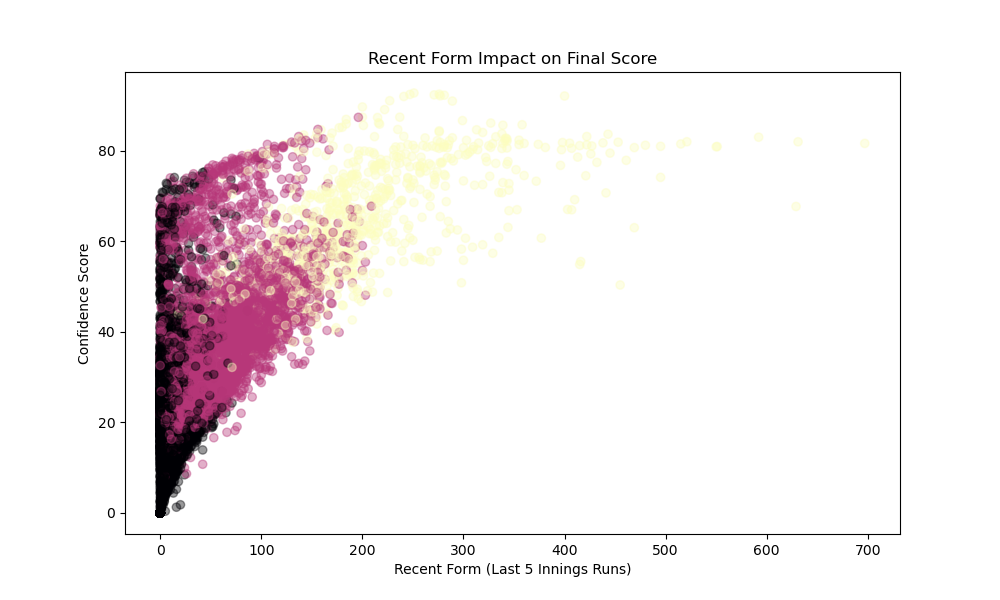
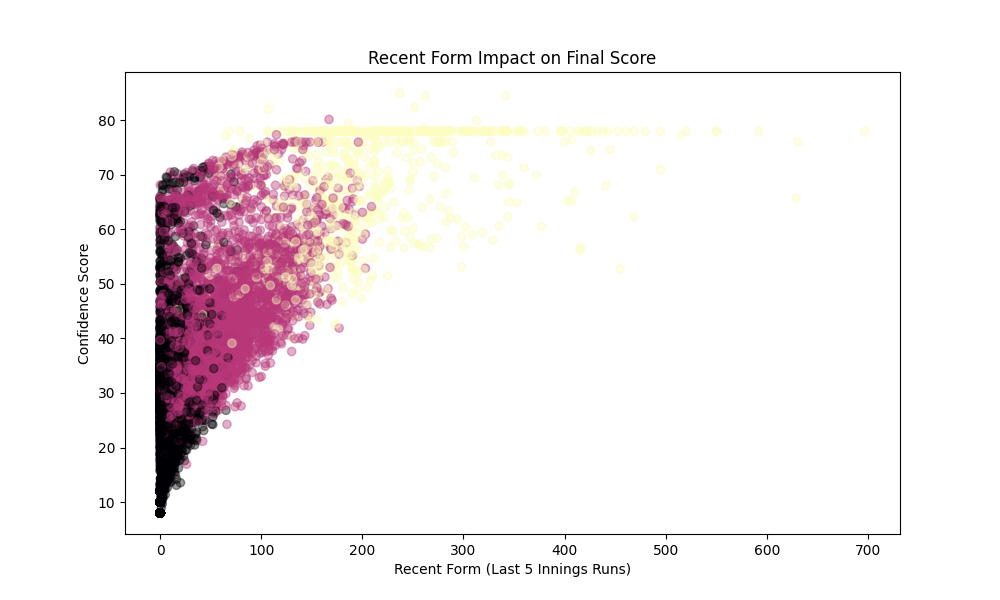
Refine scoring logic: Role-based calibration, max caps, Test stability (balls faced), and updated benchmarks.

diff --git a/train_model.py b/train_model.py
@@ -44,7 +44,9 @@ def build_refined_pipeline():
             'econ': econ,
             'bowl_avg': bowl_avg,
             'matches': matches,
-            'runs': total_runs
+            'runs': total_runs,
+            'total_balls_faced': total_balls,
+            'balls_per_innings': total_balls / (innings if innings > 0 else 1)
         })
 
     print("Engineering performance-oriented features...")
@@ -53,7 +55,7 @@ def build_refined_pipeline():
     # 3. Refined Scoring Formula (Batsman centric as per Step 5)
     # score = avg*0.35 + sr*0.25 (scaled) + last5*0.3 + hs*0.1
     # We normalize internal components for a balanced score
-    def calculate_balanced_score(row):
+    def get_base_score(row):
         # Normalizing Strike Rate (ideal 140+ in T20)
         norm_sr = min(row['sr'], 200) / 2
         # Normalizing Last 5 (ideal 200+)
@@ -63,6 +65,15 @@ def build_refined_pipeline():
         # Average (ideal 45+)
         norm_avg = min(row['avg'], 60) * 1.66
         
+        if row['player_type'] in ['Batsman', 'Wicketkeeper'] and row['match_format'] == 'Test':
+            norm_avg = min(row['avg'], 60) / 60
+            norm_balls = min(row['balls_per_innings'], 120) / 120
+            norm_last5 = min(row['last5_runs'], 250) / 250
+            norm_hs = min(row['high_score'], 150) / 150
+
+            s_fraction = (norm_avg * 0.35) + (norm_balls * 0.30) + (norm_last5 * 0.20) + (norm_hs * 0.15)
+            return s_fraction
+
         if row['player_type'] in ['Batsman', 'Wicketkeeper']:
             s = (norm_avg * 0.35) + (norm_sr * 0.25) + (norm_last5 * 0.30) + (norm_hs * 0.10)
         elif row['player_type'] == 'Bowler':
@@ -73,9 +84,70 @@ def build_refined_pipeline():
         else: # All-Rounder
             s = (norm_avg * 0.2) + (norm_sr * 0.15) + (norm_last5 * 0.2) + (min(row['wickets'], 20) * 2.5)
             
-        return s
+        return s / 100.0  # Return as fraction (0.0 to 1.0)
 
-    agg_df['score'] = agg_df.apply(calculate_balanced_score, axis=1)
+    def calibrate_score(row):
+        base = row['score'] * 100
+
+        fmt = row['match_format']
+        role = row['player_type']
+
+        # ---------------- T20 ----------------
+        if fmt == 'T20':
+            if role in ['Batsman', 'Wicketkeeper']:
+                return (base * 0.90) + 10   # aggressive scoring → 70–85
+            elif role == 'Bowler':
+                return (base * 0.85) + 12   # slightly lower ceiling
+            else:  # All-Rounder
+                return (base * 0.88) + 11
+
+        # ---------------- ODI ----------------
+        elif fmt == 'ODI':
+            if role in ['Batsman', 'Wicketkeeper']:
+                return (base * 0.85) + 8    # balanced
+            elif role == 'Bowler':
+                return (base * 0.80) + 10
+            else:
+                return (base * 0.83) + 9
+
+        # ---------------- TEST ----------------
+        else:
+            if role in ['Batsman', 'Wicketkeeper']:
+                return (base * 0.80) + 12   # consistency → higher base
+            elif role == 'Bowler':
+                return (base * 0.75) + 15   # wickets priority
+            else:
+                return (base * 0.78) + 13
+
+    def apply_max_cap(value, role, fmt):
+        if fmt == "T20":
+            if role in ['Batsman', 'Wicketkeeper']:
+                return min(value, 85)
+            elif role == 'Bowler':
+                return min(value, 82)
+            else:
+                return min(value, 84)
+
+        elif fmt == "ODI":
+            if role in ['Batsman', 'Wicketkeeper']:
+                return min(value, 80)
+            elif role == 'Bowler':
+                return min(value, 78)
+            else:
+                return min(value, 79)
+
+        else:  # Test
+            if role in ['Batsman', 'Wicketkeeper']:
+                return min(value, 78)
+            elif role == 'Bowler':
+                return min(value, 76)
+            else:
+                return min(value, 77)
+
+    print("Calculating base scores and applying calibration & caps...")
+    agg_df['score'] = agg_df.apply(get_base_score, axis=1)
+    agg_df['score'] = agg_df.apply(calibrate_score, axis=1)
+    agg_df['score'] = agg_df.apply(lambda x: apply_max_cap(x['score'], x['player_type'], x['match_format']), axis=1)
 
     # 4. Improved Clustering (StandardScaler + Performance Features)
     # Using quality features ONLY
@@ -94,8 +166,23 @@ def build_refined_pipeline():
     agg_df['levels'] = agg_df['cluster'].map({c_means[0]: 0, c_means[1]: 1, c_means[2]: 2})
 
     # 5. Top 16 Benchmarking Overall (Percent)
-    max_score = agg_df["score"].max()
-    agg_df["percent"] = (agg_df["score"] / max_score) * 100
+    agg_df["percent"] = agg_df["score"] 
+    max_score = agg_df["score"].max() # Still needed for some legacy compatibility maybe, but percent is now absolute
+
+    def apply_role_caps(value, role, fmt):
+        if fmt == "Test":
+            if role in ['Batsman']:
+                return min(value, 70) # Target range 58-70 as requested
+            elif role == 'Bowler':
+                return min(value, 72)
+            else:
+                return min(value, 74)
+
+        elif fmt == "ODI":
+            return min(value, 78)
+
+        else:  # T20
+            return min(value, 80)
 
     benchmarks = {}
     roles = agg_df["player_type"].unique()
@@ -108,10 +195,16 @@ def build_refined_pipeline():
                 (agg_df["match_format"] == f)
             ]
             
-            top16 = filtered.sort_values(by="percent", ascending=False).head(16)
-            
-            if len(top16) > 0:
-                avg_percent = top16["percent"].mean()
+            if len(filtered) > 0:
+                # Step 2 & 3: Cap elite influence and use hybrid median adjustment
+                filtered_scores = filtered["percent"].clip(upper=85)
+                q75 = filtered_scores.quantile(0.75)
+                median = filtered_scores.median()
+                
+                avg_percent = (q75 * 0.6) + (median * 0.4)
+                
+                # Step 4: Apply Hard Role Caps
+                avg_percent = apply_role_caps(avg_percent, r, f)
             else:
                 avg_percent = 0
                 

diff --git a/app.py b/app.py
@@ -168,15 +168,69 @@ if st.button("🚀 EXECUTE AI SELECTION ANALYSIS"):
         norm_hs = min(hs, 120) / 1.2
         norm_avg = min(avg, 60) * 1.66
         
-        if role in ['Batsman', 'Wicketkeeper']:
-            score = (norm_avg * 0.35) + (norm_sr * 0.25) + (norm_last5 * 0.30) + (norm_hs * 0.10)
+        # Test Specific Logic: Reward Patience (Balls Faced)
+        if role in ['Batsman', 'Wicketkeeper'] and format_type == 'Test':
+            balls_per_innings = balls / innings if innings > 0 else 0
+            n_avg = min(avg, 60) / 60
+            n_balls = min(balls_per_innings, 120) / 120
+            n_last5 = min(last5, 250) / 250
+            n_hs = min(hs, 150) / 150
+            base = ((n_avg * 0.35) + (n_balls * 0.30) + (n_last5 * 0.20) + (n_hs * 0.15)) * 100
+        elif role in ['Batsman', 'Wicketkeeper']:
+            base = (norm_avg * 0.35) + (norm_sr * 0.25) + (norm_last5 * 0.30) + (norm_hs * 0.10)
         elif role == 'Bowler':
-            score = (min(wickets, 50) * 0.8) + (max(15 - econ, 0) * 2.66) + (norm_last5 * 0.2)
+            base = (min(wickets, 50) * 0.8) + (max(15 - econ, 0) * 2.66) + (norm_last5 * 0.2)
         else: # All rounder
-            score = (norm_avg * 0.2) + (norm_sr * 0.15) + (norm_last5 * 0.2) + (min(wickets, 20) * 2.5)
+            base = (norm_avg * 0.2) + (norm_sr * 0.15) + (norm_last5 * 0.2) + (min(wickets, 20) * 2.5)
+
+        # Apply Dynamic Role-Based Calibration
+        fmt = format_type
+        if fmt == 'T20':
+            if role in ['Batsman', 'Wicketkeeper']:
+                player_percent = (base * 0.90) + 10
+            elif role == 'Bowler':
+                player_percent = (base * 0.85) + 12
+            else:  # All-Rounder
+                player_percent = (base * 0.88) + 11
+        elif fmt == 'ODI':
+            if role in ['Batsman', 'Wicketkeeper']:
+                player_percent = (base * 0.85) + 8
+            elif role == 'Bowler':
+                player_percent = (base * 0.80) + 10
+            else:
+                player_percent = (base * 0.83) + 9
+        else: # TEST
+            if role in ['Batsman', 'Wicketkeeper']:
+                player_percent = (base * 0.80) + 12
+            elif role == 'Bowler':
+                player_percent = (base * 0.75) + 15
+            else:
+                player_percent = (base * 0.78) + 13
+
+        # Apply Hard Max Caps per Role
+        if fmt == "T20":
+            if role in ['Batsman', 'Wicketkeeper']:
+                player_percent = min(player_percent, 85)
+            elif role == 'Bowler':
+                player_percent = min(player_percent, 82)
+            else:
+                player_percent = min(player_percent, 84)
+        elif fmt == "ODI":
+            if role in ['Batsman', 'Wicketkeeper']:
+                player_percent = min(player_percent, 80)
+            elif role == 'Bowler':
+                player_percent = min(player_percent, 78)
+            else:
+                player_percent = min(player_percent, 79)
+        else: # Test
+            if role in ['Batsman', 'Wicketkeeper']:
+                player_percent = min(player_percent, 78)
+            elif role == 'Bowler':
+                player_percent = min(player_percent, 76)
+            else:
+                player_percent = min(player_percent, 77)
 
         bench_val = benchmarks.get((format_type, role), 50.0)
-        player_percent = (score / max_score) * 100
         
         if player_percent >= bench_val:
             label, color = "🌟 SELECTED", "#22c55e"
@@ -330,7 +384,10 @@ if st.button("🚀 EXECUTE AI SELECTION ANALYSIS"):
                     st.info("Intelligence clustering analysis complete.")
 
         st.divider()
-        st.info("The AI weights **Recent Form (35%)** and **Batting Strike Rate (25%)** as the most critical features for this selection verdict.")
+        if format_type == 'Test':
+            st.info("For **Test Selection**, the AI prioritizes **Average (35%)** and **Stability / Balls Faced per Innings (30%)** as the most critical features.")
+        else:
+            st.info("The AI weights **Average (35%)** and **Recent Form (30%)** as the most critical features for this selection verdict in T20/ODI.")
         if os.path.exists("assets/pca_clusters.png"):
             with st.expander("🔍 View Global Performance Reference Map"):
                 st.image("assets/pca_clusters.png", caption="Historical Performance Distribution")
